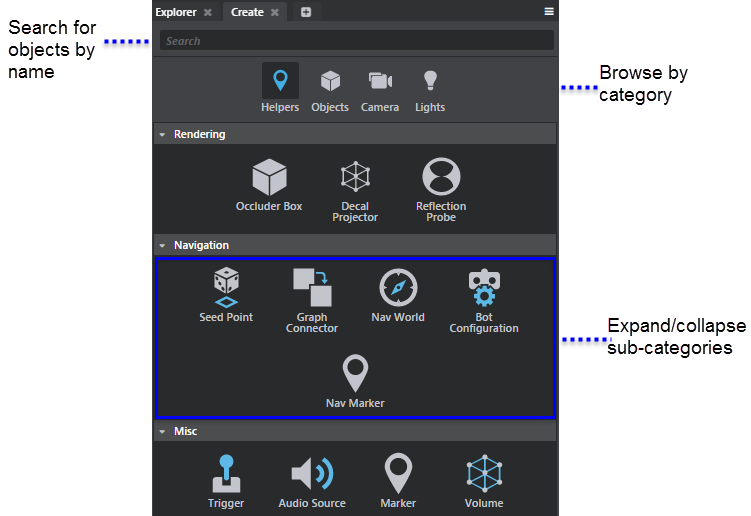
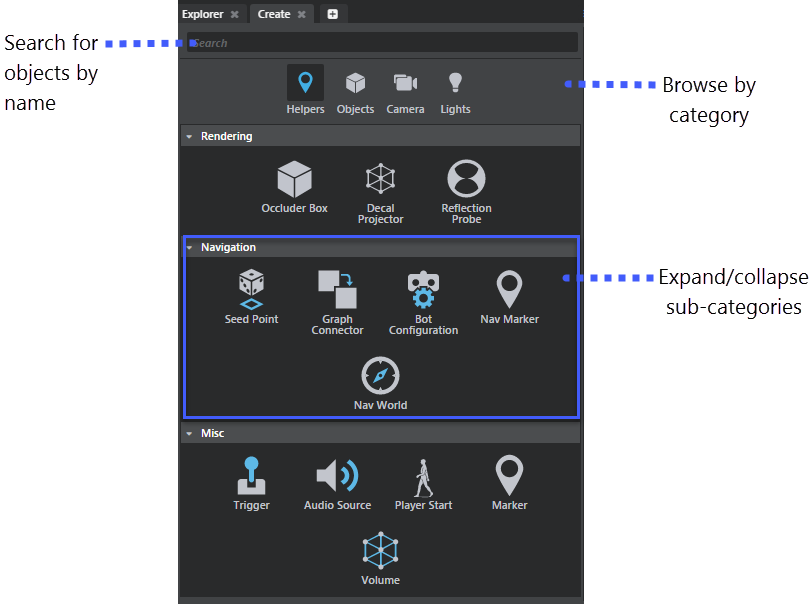
Minor Player Start, Level Explorer updates for 2.1

Changed region(s): [[0.0, 0.0, 1.0, 1.0]]

diff --git a/source/interactive_help/building_levels/create_game_objects/object_panel.md b/source/interactive_help/building_levels/create_game_objects/object_panel.md
@@ -1,7 +1,5 @@
 # Create panel
 
-![UPDATED](../../images/updated.png)
-
 - **Window > Create**
 
 Lets you create standard level objects that can be placed and modified in the level. See also ~{ Create level objects }~.
@@ -74,6 +72,10 @@ Creates an audio source unit. Place this unit in the level to play an event when
 
 See also ~{ About audio sources }~ and ~{ Wwise Workflow Tutorial }~.
 
+**Player Start**
+
+The location and position of the **Player Start** object defines the starting position of the character when you run or deploy your project. If multiple **Player Start** units are added to a level, the start position is randomly selected.
+
 **Marker**
 
 Markers are used for locating a position in your level so you can make actions happen at that location. For example, you can spawn a unit at a given Marker. See ~{ Create markers }~.
@@ -116,7 +118,6 @@ Lets you create a standard camera. See also ~{ Cameras }~.
 
 ### Physical Light
 
-[![NEW](../../images/new.png "What else is new in v1.9?")](../../release_notes/readme_1.9.html)
 Lets you create a physical light entity. See also ~{ Physically Based Lighting }~ and ~{ Create a physical light }~.
 
 ### Light

diff --git a/source/interactive_help/getting_started/common_windows/asset_browser.md b/source/interactive_help/getting_started/common_windows/asset_browser.md
@@ -21,7 +21,7 @@ The **Asset Browser** is the main way to browse and import assets in your projec
 | Open a folder location in Windows Explorer  | Right-click anywhere in the **File View** and select **Show in Explorer**.  |
 | Update assets in a scene  | Right-click the assets and select **Re-import** option to import them again using the **Import FBX** options window. Note that the Re-import option displays only for units, animation clips and skeletons.|
 | Duplicate assets and folders | Right-click assets and select **Duplicate**. For folders in the Asset Browser, right-click and select **Duplicate Folder**. |
-| Update asset thumbnails | Select the asset in the **Asset Browser**, then click ![](../../images/icon_snapshot.png) in the **Asset Preview**. |
+| Update asset thumbnails | Select the unit in the **Asset Browser**, then click ![](../../images/icon_snapshot.png) in the **Asset Preview**. |
 
 ## Tree view
 The Tree view displays all folders in your project. Select a folder to display its contents in the File view area.

diff --git a/source/interactive_help/getting_started/common_windows/level_explorer.md b/source/interactive_help/getting_started/common_windows/level_explorer.md
@@ -12,6 +12,10 @@ If the selected objects already share the same value for a property, the value d
 
 ![](../../images/different_setting.png)
 
+To toggle the visibility of objects, right-click a unit in the **Explorer** panel, then select **Hide Selected** or **Show Selected** from the menu that appears.
+
+![](../../images/level_explorer_hide.png)
+
 For objects that are hidden in all **Level Viewport** views (globally hidden), the **Explorer** panel displays a blue visibility icon. If objects are hidden in individual views (locally), you'll see orange visibility icons. Hover over objects to view a tooltip that explains their visibility settings.
 
 ![](../../images/explorer_visibility.png)

diff --git a/source/interactive_help/getting_started/common_windows/asset_preview.md b/source/interactive_help/getting_started/common_windows/asset_preview.md
@@ -6,7 +6,7 @@ Displays assets as you browse and select them in the **Asset Browser**. You can 
 
 ![](../../images/asset_preview_unit.png)
 
-> **Tip**: To update asset thumbnails that display in the **Asset Browser**, select the asset, then click ![](../../images/icon_snapshot.png) in the **Asset Preview**.
+> **Tip**: To update unit thumbnails that display in the **Asset Browser**, select the asset, then click ![](../../images/icon_snapshot.png) in the **Asset Preview**.
 
 When you select a material, the **Asset Preview** displays the shaderball with your material applied, letting you preview the material within the current lighting environment. You can also preview 2D texture files.
 

diff --git a/source/interactive_help/getting_started/set_up_project/template_projects.md b/source/interactive_help/getting_started/set_up_project/template_projects.md
@@ -35,7 +35,7 @@ This template is a simple vehicle level. It contains a driveable four-wheeled ve
 {{ProductName}} includes the following templates for rendering in VR devices. (See also: ~{ Get started in VR }~.)
 
 <dl>
-<dt>VR Desktop</dt?
+<dt>VR Desktop</dt>
 <dd>This flexible VR template can be used with Oculus or HTC Vive systems. This template has a simple VR level with a floor plan to walk around in. It also includes a basic script that lets you spawn a free camera and a walk around camera.
 
 The VR headset that is connected when you launch the template is used. If no headset is connected, then a regular player controller is used.

diff --git a/source/interactive_help/building_levels/show_hide_objects.md b/source/interactive_help/building_levels/show_hide_objects.md
@@ -13,6 +13,7 @@ The grid is displayed/hidden in all view panels.
 
 Do any of the following:
 
+- Right-click a unit in the **Explorer** panel, then select **Hide Selected** or **Show Selected** from the menu that appears.
 - Select an object(s) in the **Level Viewport** or the **Explorer** panel, then select **Edit > Object Visibility > Hide\Unhide Selected** (Hotkey: H).
 - In the menu bar, select **Edit > Object Visibility > Hide Unselected** (Hotkey: Alt + H) .
 - In the menu bar, select **Edit > Object Visibility > Unhide All** (Hotkey: Ctrl + Alt + H).
